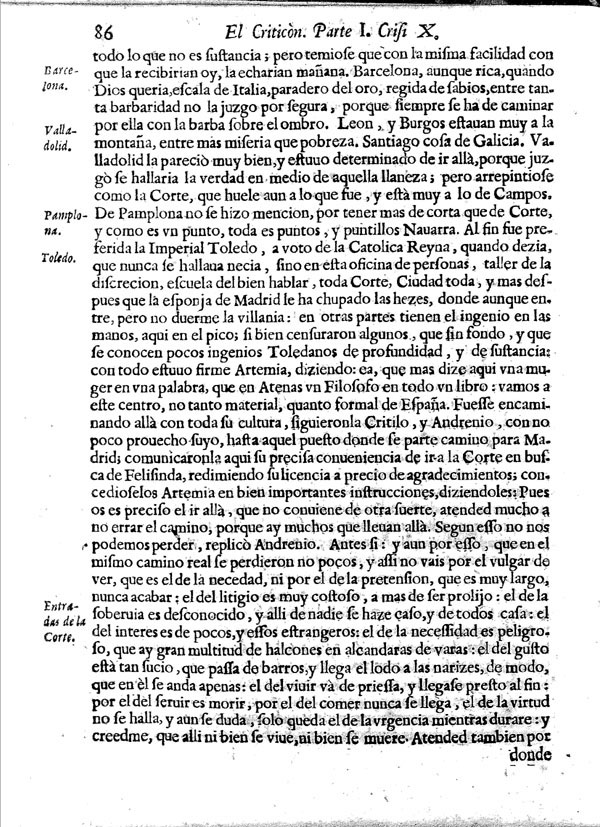
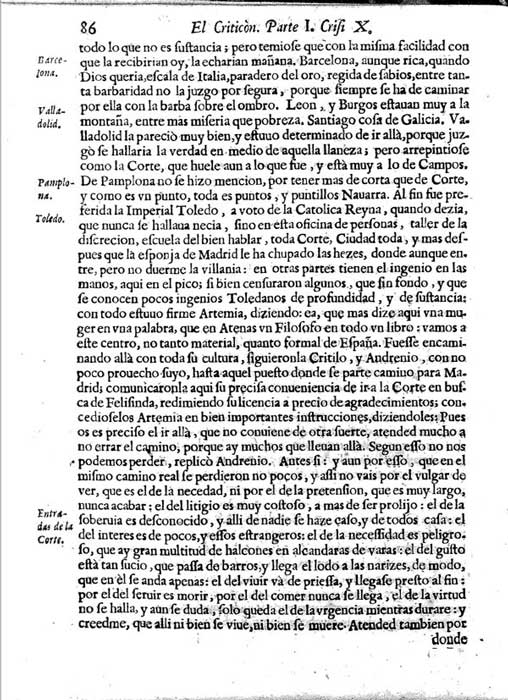
tei-code

diff --git a/marginalia.html b/marginalia.html
@@ -41,7 +41,8 @@
 
 <!-- PARA IMPRIMIR LA PRESENTACION
 
-If the query includes 'index.html/?print-pdf', use the PDF print sheet 
+1. If the query (en la barra de dirección) includes 'index.html/?print-pdf'
+2. use the PDF print sheet (pulsar imprimir)
 Para imprimir a PDF: con Chrome queda mejor, aunque también funciona con Safari. Usar la función de "guardar" del navegador (coge también los enlaces) "vista previa en PDF", no-->
 
 <link rel="stylesheet" href="css/print/pdf.css" type="text/css" media="print">
@@ -96,13 +97,12 @@ Rękopiśmienne adnotacje Arthura Schopenhauera: <h3> ich edycja oraz cyfrowe ko
 	<ul>
 	
 	  <li><a href="#/interpretacja">Interpretacja</a><span class="weiter">↡(7)</span></li>	    
-		<li><a href="#/model">Model znakowania</a><span class="weiter">↡(2)</span></li>
-		<li><a href="#/drupal">Publikacja cyfrowa</a><span class="weiter">↡(1)</span></li>
+		<li><a href="#/model">Model znakowania</a><span class="weiter">↡(6)</span></li>
+		<li><a href="#/drupal">Publikacja cyfrowa</a><span class="weiter">↡(5)</span></li>
 	  <li><a href="#/impressum">Impressum</a></li>
 	</ul>
 		
 		</div>
-	    
 		</section> <!--FIN INDICE-->
      			      			
 </section> <!--FIN PORTADA E INDICE-->
@@ -134,7 +134,9 @@ Rękopiśmienne adnotacje Arthura Schopenhauera: <h3> ich edycja oraz cyfrowe ko
 
 </div>	
 
-<ul style="width: 60%; float: right;" >
+
+<ul style="width: 50%; float: right;" >
+
 <li>3000 książki (po śmierci)</li> 
 <li>"Kein Bibliophile"</li>
 
@@ -185,7 +187,7 @@ Rękopiśmienne adnotacje Arthura Schopenhauera: <h3> ich edycja oraz cyfrowe ko
 		
 			<img src="imagen/marginalia-criticon_con.jpg"/>
 			
-			<div class="caption">B. Gracián, <i>Criticón</i>: 1ª parte <a class="fuente" href="www.cervantesvirtual.com/nd/ark:/59851/bmcmg7m5">CVC</a></div>
+			<div class="caption">B. Gracián, <i>Criticón</i>: 1ª parte <a class="fuente" href="http://www.cervantesvirtual.com/nd/ark:/59851/bmcmg7m5">CVC</a></div>
 		
 			</div>	
 		
@@ -222,11 +224,15 @@ Rękopiśmienne adnotacje Arthura Schopenhauera: <h3> ich edycja oraz cyfrowe ko
 
 <section>
 
+
 <div>
 
-Reading Notes: Introduction Dirk Van Hulle and Wim Van Mierlo
-common lecture
-Proceso intimo de escritura
+<li> Reading Notes: Introduction Van Hulle&Van Mierlo</li>
+<li> Common lecture</li>
+<li> Proceso intimo de escritura</li>
+<li> Trudności edytowania</li>
+
+<i>to be continued</i>
 
 </div>
 
@@ -240,7 +246,7 @@ Proceso intimo de escritura
 
 	<img src="http://sammlungen.ub.uni-frankfurt.de/schopenhauer/image/view/7191741?w=904">
 	
-	<div class="caption"><i>Adversaria</i>, Schopenhauer - Schopenhauer-Archiv: 1411 <a class="fuente" href="http://sammlungen.ub.uni-frankfurt.de/schopenhauer/image/view/7191741?w=904">© Universitätsbibliothek Frankfurt am Main</a></div>
+	<div class="caption"><i>Adversaria</i>, Schopenhauer - Schopenhauer-Archiv: 1411 <a class="fuente" href="http://www.ub.uni-frankfurt.de/archive/schopenhauer.html">© Universitätsbibliothek Frankfurt am Main</a></div>
 
 </div>	
 
@@ -269,9 +275,9 @@ Proceso intimo de escritura
 
 <div class="imagen-sola">
 
-<img src="imagen/marginalia-abo.png"/>
+<img src="imagen/marginalia-abo.jpg"/>
 
-	<div class="caption">Harvey’s copy of Livy’s <i>Histories</i> <a class="fuente" href="www.annotatedbooksonline.com"> www.annotatedbooksonline.com</a>
+	<div class="caption">Harvey’s copy of Livy’s <i>Histories</i> <a class="fuente" href="http://www.annotatedbooksonline.com"> www.annotatedbooksonline.com</a>
 		</div>
 	
 	
@@ -363,7 +369,7 @@ Proceso intimo de escritura
 	<h3>Interpretacja</h3>
 	
 	<div class="imagen-sola">
-	<img src="imagen/marginalia-siglo.png"/>
+	<img src="imagen/marginalia-siglo.jpg"/>
 	
 	<div class="caption"><i>Die Welt als Wille und Vorstellung</i>, Brockhaus, 1819.
 		
@@ -530,7 +536,7 @@ Proceso intimo de escritura
 
 <ul style="width: 60%; float: right;" >
 <li>short definition: </li>
-<li> X </li>  
+<li> <i>to be continued</i> </li>  
 <li> X </li>
 <li> X </li>
 <li> X </li>
@@ -541,65 +547,63 @@ Proceso intimo de escritura
 </section>  <!--TEI definition-->
 
 <section>
-<ul>
-
- Focusing on the transcript of handwritten marginalia
- 
- </ul>
-</section>
-
-<section>
 
 <ul>
+<li> Focusing on the transcript of handwritten marginalia
+</li>
 <li>
 całościowa czy częściowa transkrypcja nośnika
 </li>
+</br>
+<li>anchored to preexisting written words</li>
+<li><i>to be continued</i></li>
 </ul>
-</br>
-</br>
-</br>
-<li>responsiv</li>
+
 
 
 </section>  <!--RESponsive-->
 
-<section>
+<section id="tei-probe">
 
-<code>
+<div class="imagen-texto">
 
-specifications for highlighting and quotation; for additions, deletions, and omissions; for substitutions; for writing, decoration; for spans and interpretations. Some of the elements and attributes that may be used for the transcription of marginalia: 
+<img src="imagen/HO-Schop.png"/>
 
-<pre><code>&lt;add&gt;</code></pre>
-<pre><code>&lt;gloss&gt; </code></pre>
-;note&gt;
-&lt;handNotes&gt;
+<div class="caption"><i>Oráculo Manval, y Arte de Prudencia</i>, Ámsterdam, Juan Blaeu, 1659. Ejemplar personal de Schopenhauer con <i>marginalia</i> <a class="fuente" href="http://www.ub.uni-frankfurt.de/archive/schopenhauer.html">Schopenhauer-Archiv (603/56).</a></div>
 
-
-@type
-@place
-@hand
+</div>	
 
 
-</code>
 
-</section>
+<pre style="font-size: 0.5em ; ">
+<code><b>1.</b>&lt;lb type="hyphenInWord" break="no"/&gt; &lt;pb n="95"/&gt;era todas sus cosas, y llevándose a sí&lt;lb/&gt; lo</code></pre>
+
+<pre style="font-size: 0.5em ; ">
+<code>2.&lt;add type="Randstreichung" subtype="triple" hand="#Schop1"&gt;</code></pre>
 
 
-<section id="code-xhml">
+<pre style="font-size: 0.5em ; ">
+<code>3. y podrá &lt;add type="Unterstreichung" hand="#Schop1"&gt;vivirse a&lt;lb/&gt; solas.&lt;/add&gt;</code></pre>
+      
+<pre style="font-size: 0.5em ; ">
+<code>4.&lt;subst hand="#Schop2"&gt;&lt;del&gt;a&lt;lb type="hyphenInWord" break="no"/&gt;y&lt;/del&gt;&lt;add&gt;ej&lt;/add&gt;&lt;/subst&gt;</code></pre>
+      
+<pre style="font-size: 0.5em ; ">
+<code>5.&lt;add type="gloss" hand="#Schop2" xml:lang="es" place="inline"&gt;Cumplido con esa regla, sobran las demas&lt;/add&gt;</code></pre>
 
-<h3>CODE</h3>
+<pre style="font-size: 0.5em ; ">
+<code>6.&lt;seg type="maxim" xml:id="138"&gt;
+&lt;num&gt;138&lt;/num&gt;. 
+&lt;add hand="#Schop1" type="Unterstreichung"&gt;
+Arte de dexar estar&lt;/add&gt;.&lt;/seg&gt;</code></pre>
 
-<pre>
-<code>
-&lt;p&gt;&lt;seg type="maxim" xml:id="138"&gt;
-&lt;num&gt;138&lt;/num&gt;. &lt;add hand="#Schop1" type="Unterstreichung"&gt;Arte de dexar estar&lt;/add&gt;.&lt;/seg&gt; Y más quan&lt;lb type="hyphenInWord" break="no"/&gt;do mas rebuelta la comun mar, ò la&lt;lb/&gt; familiar. Ay torbellinos en el hu&lt;lb type="hyphenInWord" break="no"/&gt;mano trato, tempestades de volun&lt;lb type="hyphenInWord" break="no"/&gt;tad, entonces es cordura retirarse al&lt;lb/&gt; &lt;add type="Randstreichung" subtype="simple"&gt;seguro puerto del dar vado: muchas&lt;lb/&gt; vezes empeoran los males con los&lt;lb/&gt; remedios, &lt;add type="Unterstreichung"&gt;dexar hazer a la naturale&lt;lb type="hyphenInWord" break="no"/&gt;za allí&lt;/add&gt;, y aqui a la moralidad: tanto&lt;lb/&gt;&lt;/add&gt; ha de saber sabio Medico para re&lt;lb type="hyphenInWord" break="no"/&gt;cetar, como para no recetar, y a veces&lt;lb/&gt; consiste el arte mas en el no apli&lt;lb type="hyphenInWord" break="no"/&gt;&lt;add type="Unterstreichung"&gt;car remedios; sea modo de sosse&lt;lb type="hyphenInWord" break="no"/&gt;gar vulgares torbellinos el alçar ma&lt;lb type="hyphenInWord" break="no"/&gt;&lt;/add&gt;
+<pre style="font-size: 0.5em ; ">
+<code>7.&lt;note resp="editor"&gt;przypisy editora do konkretnego elementu&lt;/note&gt;</code></pre>
 
-&lt;pb n="96"/&gt;no, y dexar sossegar, ceder al tiem&lt;lb type="hyphenInWord" break="no"/&gt;po aora, para vencer despues ; una&lt;lb/&gt; fuente con poca inquietud se entur&lt;lb type="hyphenInWord" break="no"/&gt;bia, ni fe volverá a serenar procu&lt;lb type="hyphenInWord" break="no"/&gt;randolo, sino dexandola: no ay&lt;lb/&gt; mejor remedio de los desconciertos&lt;lb/&gt; que dexarlos correr , que assi caen&lt;lb/&gt; de ú propios.&lt;lb/&gt;
-&lt;/p&gt;</code>
-</pre>
 
-</section>  <!--CODE.-->
 
+
+	</section> <!--tei-probe-->
 
 
 
@@ -631,7 +635,7 @@ EMPIEZA drupal
 <h3>TEICHI</h3>
 <div class="imagen-texto">
 
-<img src="imagen/marginalia-teichi.jpeg"/>
+<img src="imagen/marginalia-teichi.jpg"/>
 
 <div class="caption"><i>Essai sur le récit</i>, Digital edition with Drupal&TEICHI <a class="fuente" href="http://www.berardier.org">www.berardier.org</a>
 </div>
